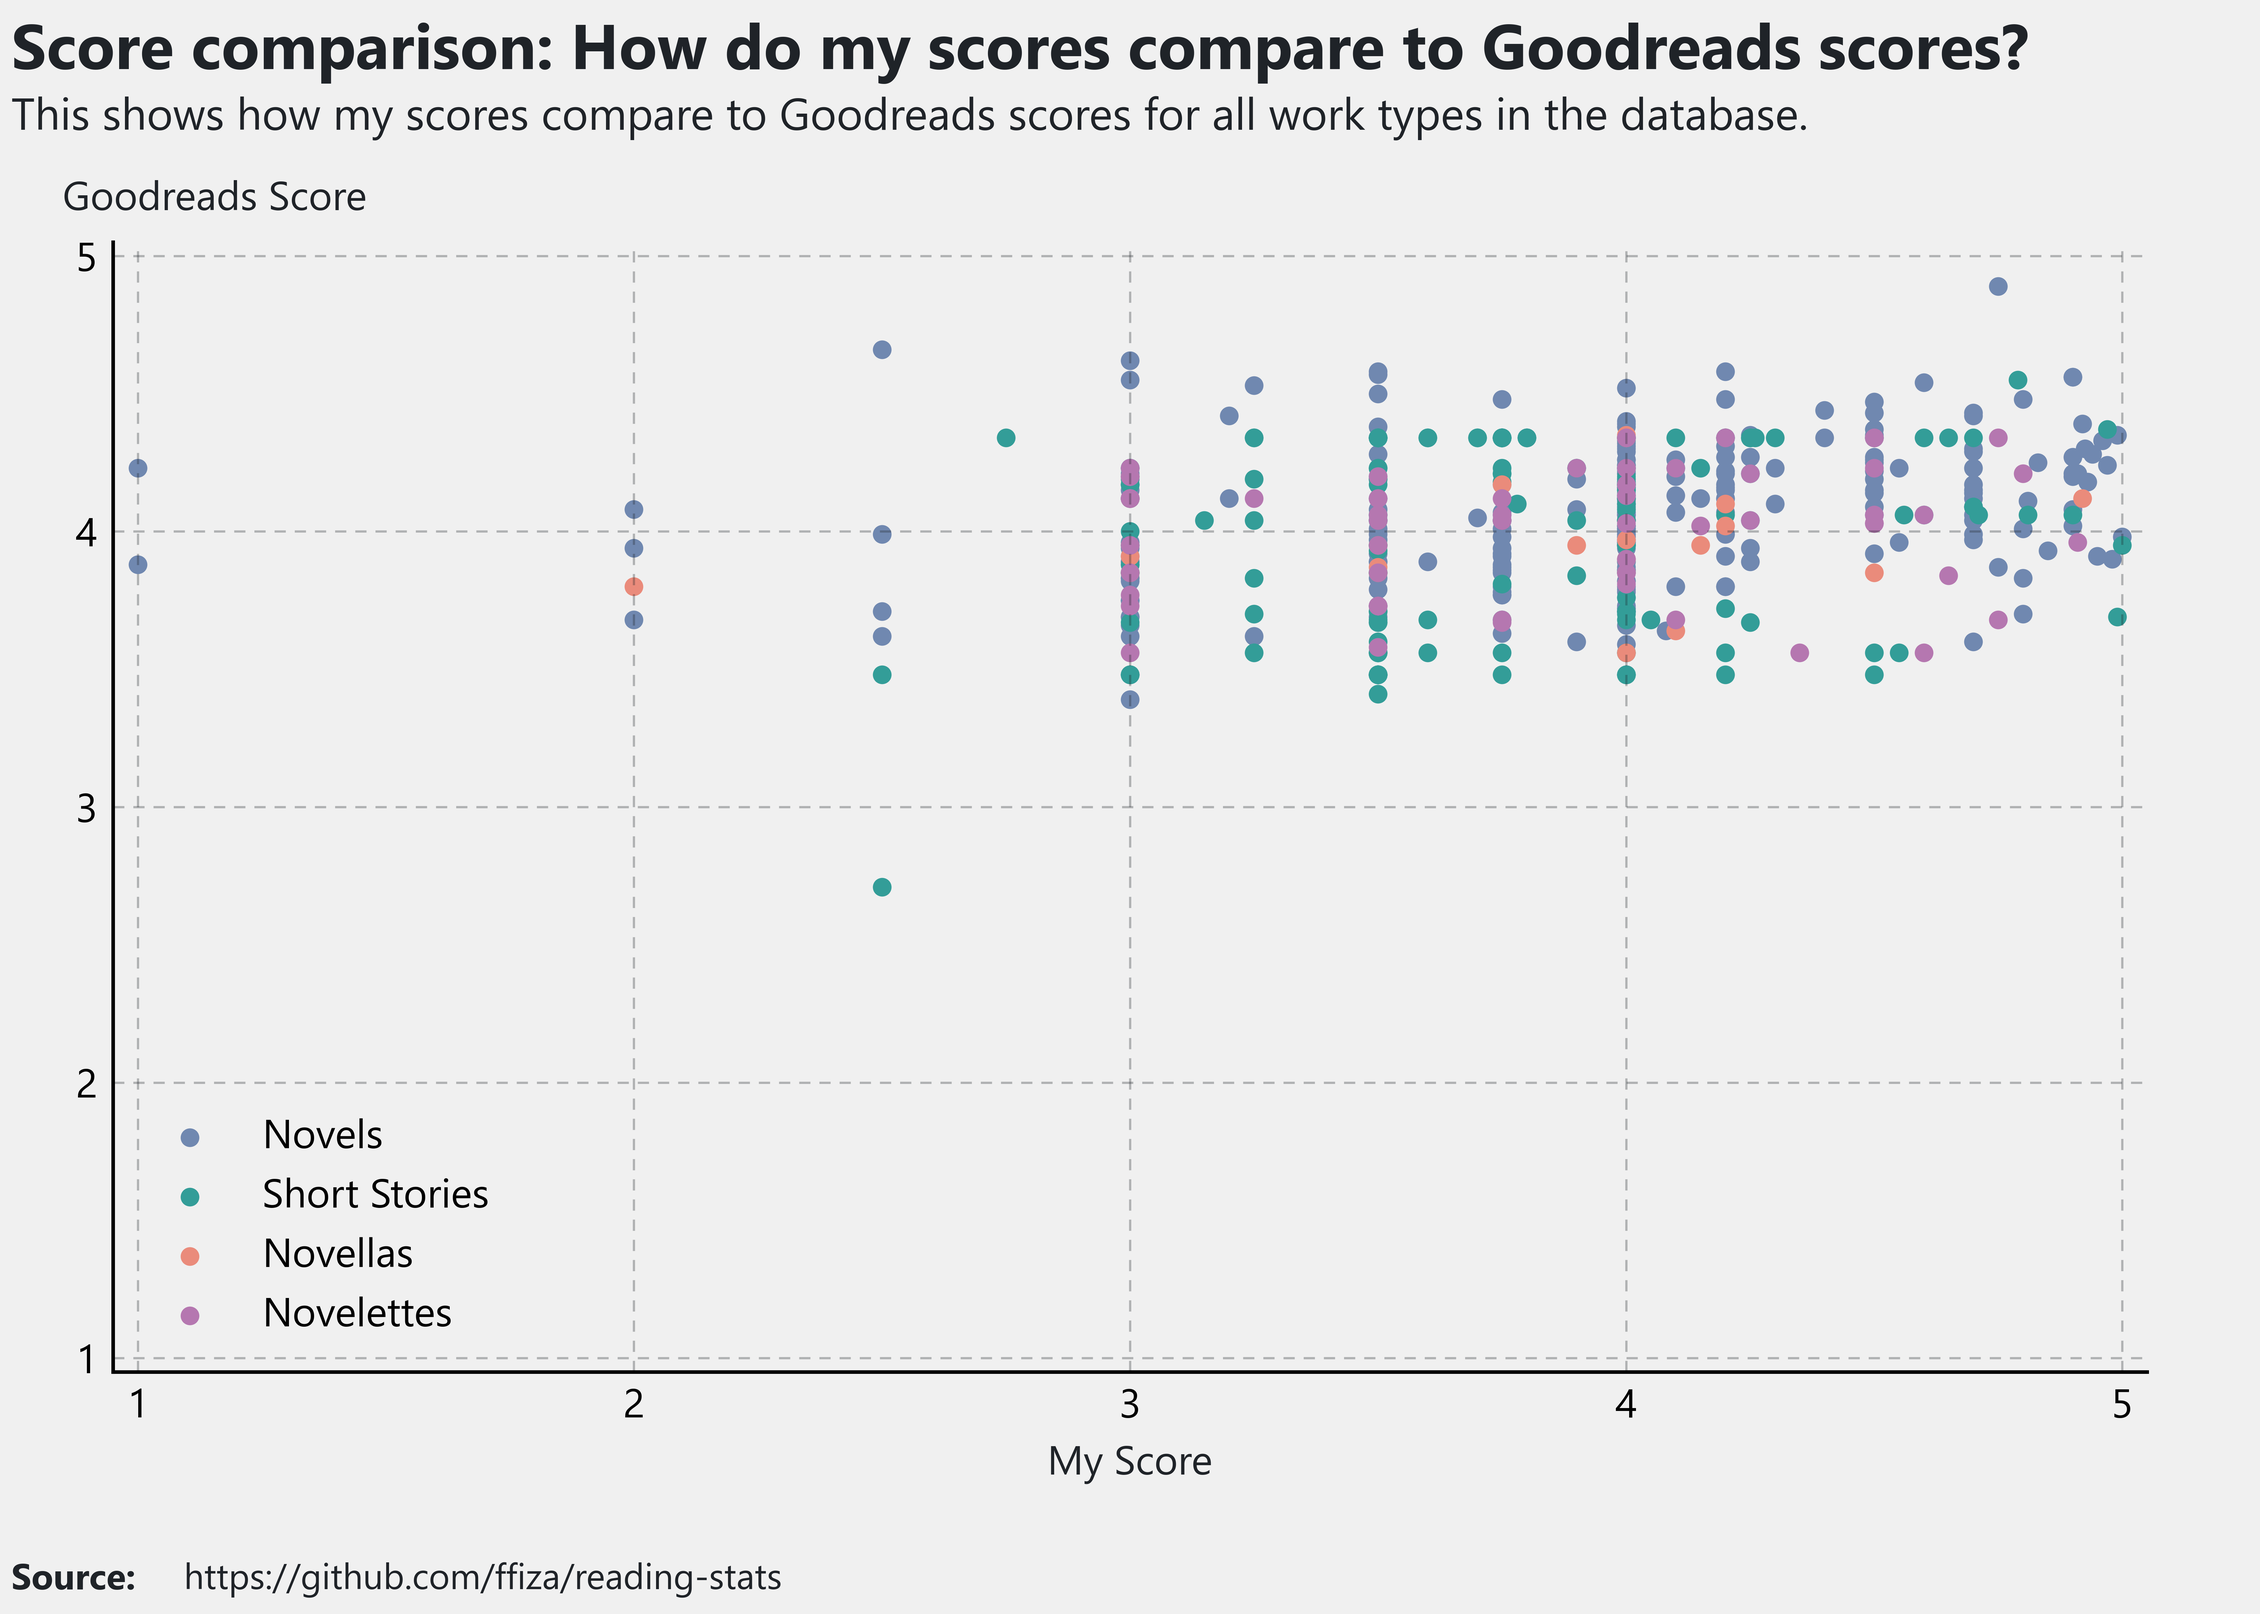
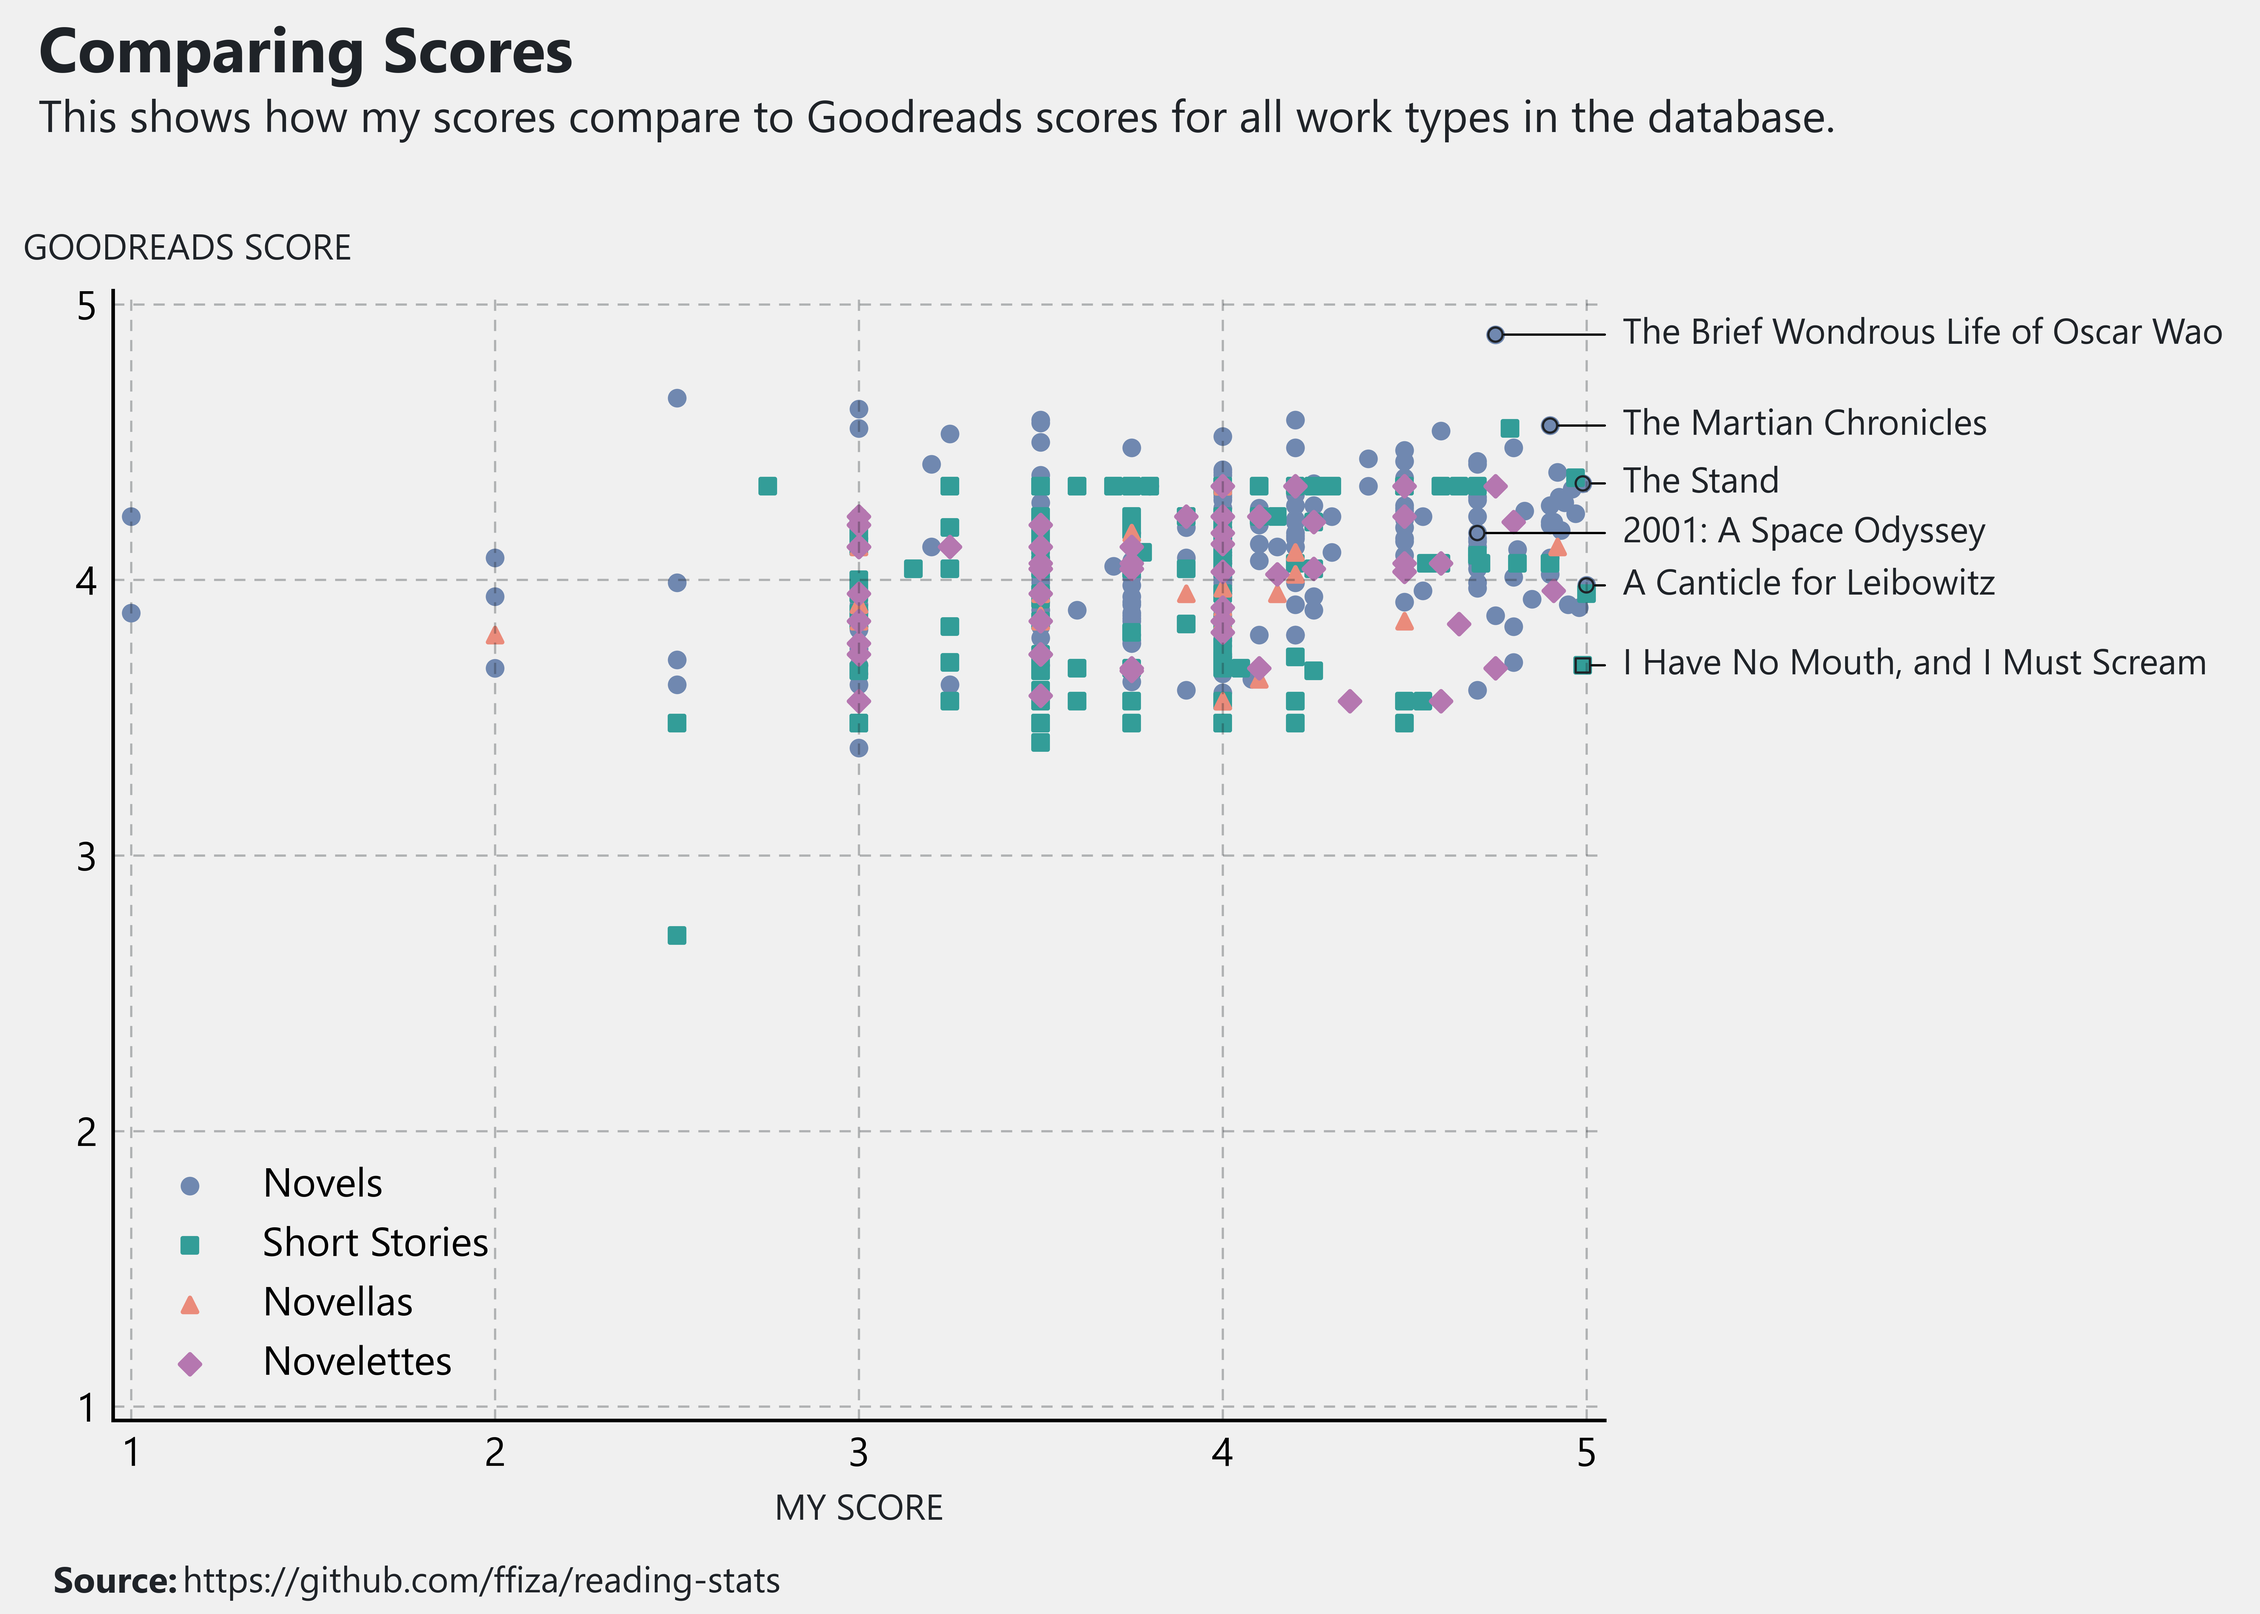
Highlight some works and improve style.

diff --git a/src/works.py b/src/works.py
@@ -36,6 +36,15 @@ def export_top_works() -> None:
 
 
 def plot_works_score_scatter(df: pd.DataFrame) -> None:
+    WORKS_TO_HIGHLIGHT = [
+        "The Stand",
+        "The Brief Wondrous Life of Oscar Wao",
+        "A Canticle for Leibowitz",
+        "The Martian Chronicles",
+        "2001: A Space Odyssey",
+        "I Have No Mouth, and I Must Scream"
+    ]
+
     fig = plt.figure(figsize=(7, 5))
     gs = fig.add_gridspec(ncols=1, nrows=1, hspace=0, wspace=0)
     ax = fig.add_subplot(gs[0, 0])
@@ -47,9 +56,9 @@ def plot_works_score_scatter(df: pd.DataFrame) -> None:
     ax.set_ylim(0.95, 5.05)
     ax.set_xticks([1, 2, 3, 4, 5])
     ax.set_yticks([1, 2, 3, 4, 5])
-    ax.set_xlabel("My Score", fontsize=9,
+    ax.set_xlabel("MY SCORE", fontsize=8,
                   fontname=Settings.FONTNAME, color=Colors.DARKGRAY)
-    ax.set_ylabel("Goodreads Score", rotation=0, fontsize=9,
+    ax.set_ylabel("GOODREADS SCORE", rotation=0, fontsize=8,
                   fontname=Settings.FONTNAME, color=Colors.DARKGRAY)
     ax.yaxis.set_label_coords(0.05, 1.02)
     ax.tick_params(axis='y', length=0, labelsize=9)
@@ -67,36 +76,56 @@ def plot_works_score_scatter(df: pd.DataFrame) -> None:
         ax.spines[spine].set_visible(False)
 
     plt.text(
-        -0.05, 1.14, va="bottom", ha="left", fontsize=14,
+        -0.05, 1.18, va="bottom", ha="left", fontsize=14,
         transform=ax.transAxes, color=Colors.DARKGRAY,
-        s=f"Score comparison: How do my scores compare to Goodreads scores?",
+        s="Comparing Scores",
         fontname=Settings.FONTNAME, weight=800)
     plt.text(
-        -0.05, 1.09, va="bottom", ha="left", fontsize=10,
+        -0.05, 1.17, va="top", ha="left", fontsize=10,
         transform=ax.transAxes, color=Colors.DARKGRAY,
         s="This shows how my scores compare to Goodreads scores "
           "for all work types in the database.",
         fontname=Settings.FONTNAME)
     plt.text(
-        -0.05, -0.2, s="Source:", fontweight="bold", fontsize=8,
+        -0.04, -0.16, s="Source:", fontweight="bold", fontsize=8,
         transform=ax.transAxes, color=Colors.DARKGRAY,
         fontname=Settings.FONTNAME, va="bottom", ha="left")
     plt.text(
-        0.03, -0.2, s=" https://github.com/ffiza/reading-stats",
+        0.04, -0.16, s=" https://github.com/ffiza/reading-stats",
         fontsize=8, transform=ax.transAxes, color=Colors.DARKGRAY,
         fontname=Settings.FONTNAME, va="bottom", ha="left")
 
     for work_type in ["Novel", "Short Story", "Novella", "Novelette"]:
         df_work_type = df[df["WorkType"] == work_type]
         ax.scatter(df_work_type["ReadScore"], df_work_type["GoodreadsScore"],
-                   s=10, color=Colors.COLOR_MAPPING[work_type],
+                   s=10, color=Settings.COLOR_MAPPING[work_type],
+                   marker=Settings.WORK_TYPE_SYMBOLS[work_type],
                    label=Settings.PLURAL_WORK_NAME[work_type])
 
     ax.legend(loc="lower left", frameon=False,
               prop={"family": Settings.FONTNAME, "size": 9})
 
+    for work in WORKS_TO_HIGHLIGHT:
+        df_work = df[df["WorkName"] == work]
+        if not df_work.empty:
+            ax.scatter(
+                df_work["ReadScore"], df_work["GoodreadsScore"],
+                s=10, label=work, zorder=20, linewidth=0.5,
+                marker=Settings.WORK_TYPE_SYMBOLS[
+                    df_work["WorkType"].values[0]],
+                facecolor="none", edgecolor=Colors.DARKGRAY,)
+            ax.annotate(
+                work,
+                (df_work["ReadScore"].values[0],
+                 df_work["GoodreadsScore"].values[0]),
+                textcoords="data",
+                xytext=(5.1, df_work["GoodreadsScore"].values[0]), ha='left',
+                va="center", arrowprops=dict(arrowstyle='-', lw=0.5,),
+                fontsize=8, fontname=Settings.FONTNAME, color=Colors.DARKGRAY,
+                zorder=25)
+
     fig.tight_layout()
-    ax.set_position((0.05, 0.15, 0.9, 0.7))
+    ax.set_position((0.05, 0.12, 0.66, 0.7))
     fig.savefig("images/work_score_scatter.png", dpi=1000)
 
 

diff --git a/src/settings.py b/src/settings.py
@@ -1,3 +1,6 @@
+from colors import Colors
+
+
 class Settings:
     DATABASE_PATH = "data/raw/books.db"
     FONTNAME = "Segoe UI"
@@ -12,4 +15,17 @@ class Settings:
         "Graphic Novel": "Graphic Novels",
         "Anthology": "Anthologies",
         "Poetry": "Poems",
+    }
+
+    COLOR_MAPPING = {
+        "Novel": Colors.BLUE,
+        "Short Story": Colors.GREEN,
+        "Novella": Colors.ORANGE,
+        "Novelette": Colors.PURPLE,
+    }
+    WORK_TYPE_SYMBOLS = {
+        "Novel": "o",
+        "Short Story": "s",
+        "Novella": "^",
+        "Novelette": "D",
     }

diff --git a/src/colors.py b/src/colors.py
@@ -10,10 +10,3 @@ class Colors:
     ORANGE = "#ea8b7b"
     RED = "#a05961"
     CYAN = "#60bbc8"
-
-    COLOR_MAPPING = {
-        "Novel": BLUE,
-        "Short Story": GREEN,
-        "Novella": ORANGE,
-        "Novelette": PURPLE,
-    }
